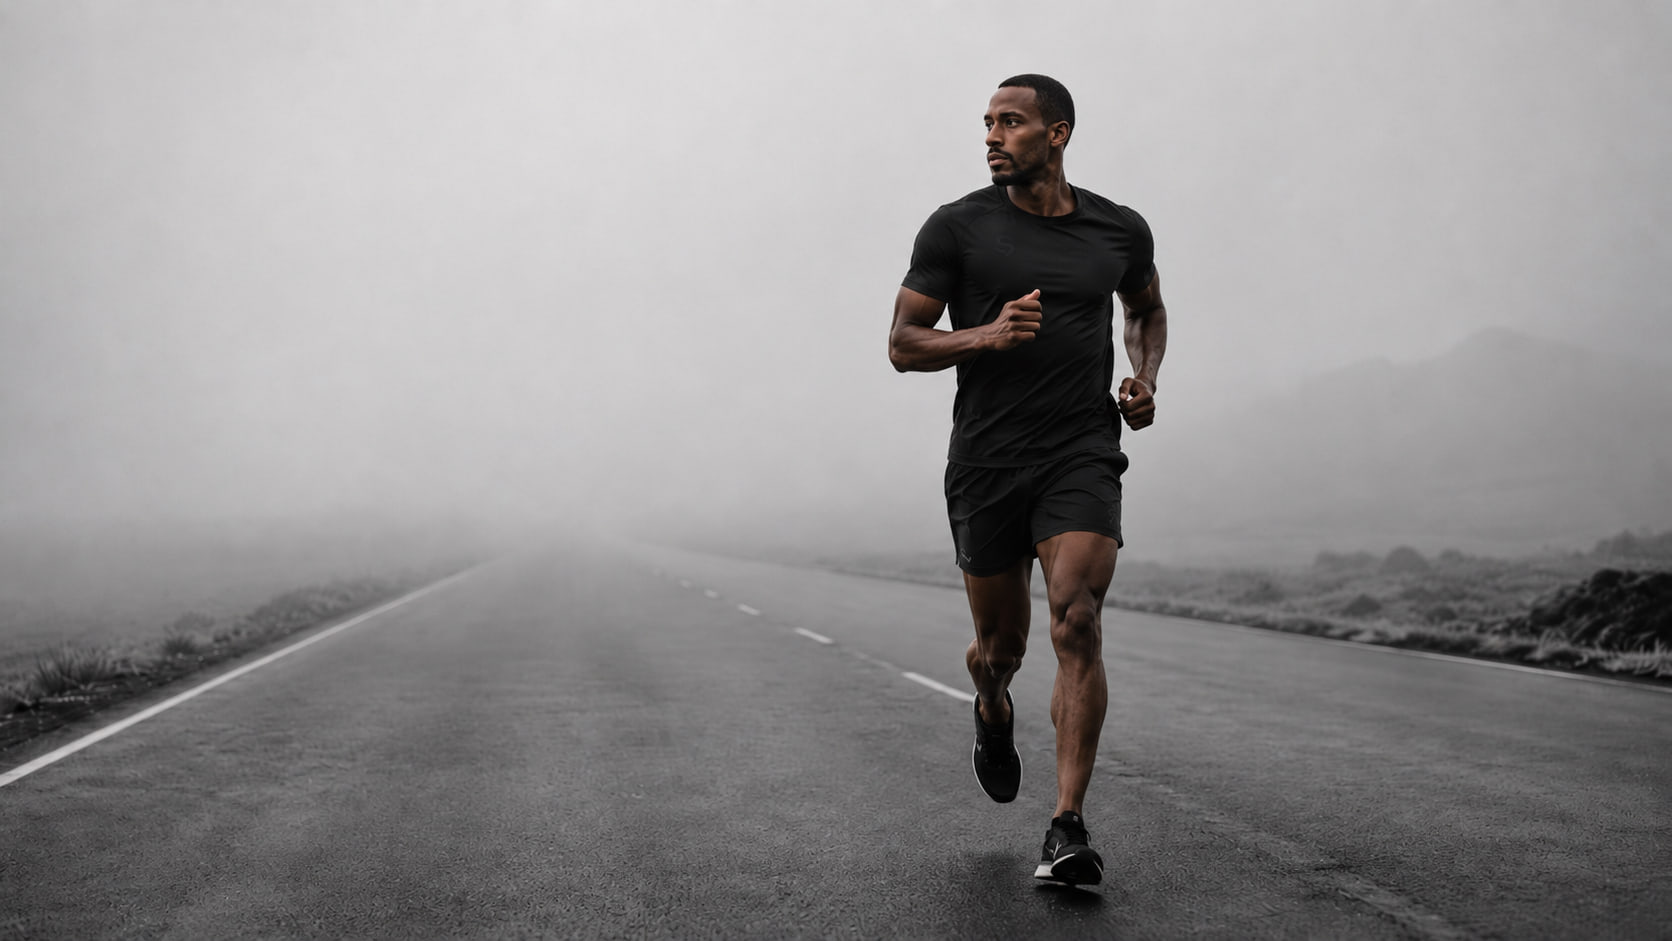
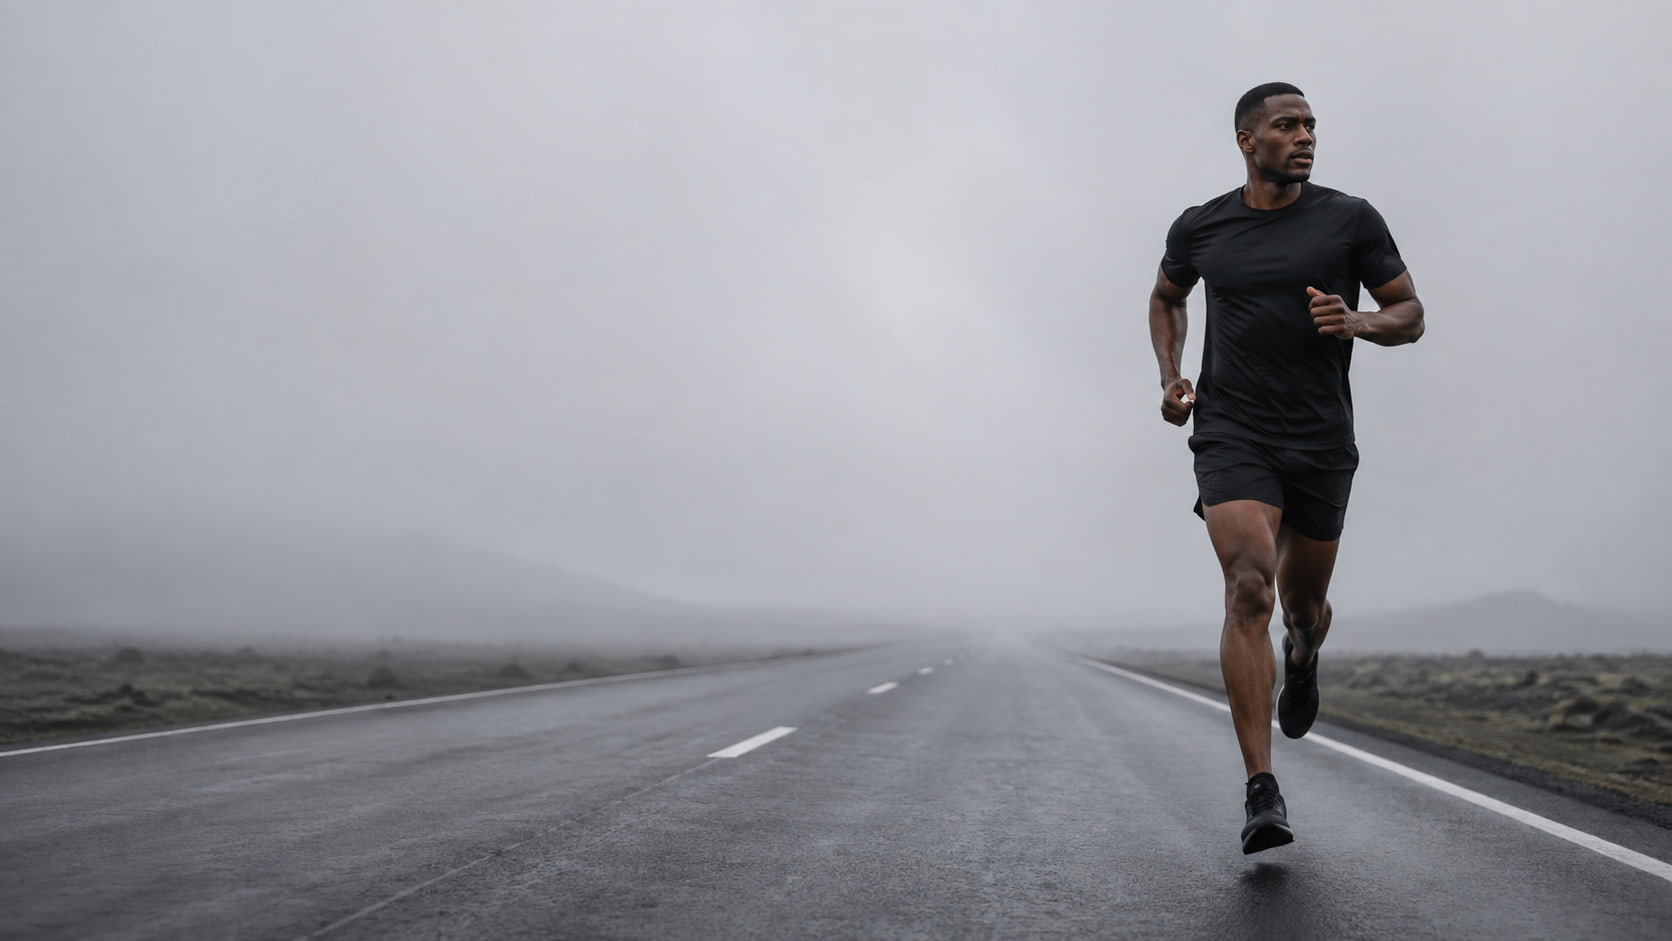
New Running hero photo, zoomed to match Gym; Gym hero 0.5cm taller
Running:
- Replace images/hero-running.jpg with the v2 shot. This one needs no
  horizontal flip - the runner is already on the right - and its shoes are
  plain black, so the swoosh-like marks on the previous image are gone.
- Zoom the photo to 160% of the hero width so the runner matches the gym
  model's apparent size; at plain cover he sat small in a wide landscape
  and the two heroes read as different systems. Desktop only: on mobile
  cover scales by height, so a width-based 160% would expose a gap.
- Move framing out of the inline style and into the page stylesheet. An
  inline background-position beats every media query, which would have
  silently killed the mobile framing.

Gym:
- Revert the 0.5cm photo lift; the image is back at the shared 72% top.
- Make the hero itself 0.5cm taller instead: min-height calc(58vh + 0.5cm).

diff --git a/collection-running.html b/collection-running.html
@@ -36,6 +36,18 @@
     *{box-sizing:border-box}
     :focus-visible{outline:2px solid #000;outline-offset:3px}
     @media(prefers-reduced-motion:reduce){.fu{opacity:1!important;transform:none!important;transition:none!important}}
+    /* Hero framing (5 Aug 2026). Kept in the stylesheet rather than inline on
+       the element, because an inline background-position would beat both of
+       these rules.
+       Desktop: the runner sits much smaller in his frame than the gym model
+       does in hers, so plain `cover` reads as a wide landscape next to
+       collection-gym.html. Scaling to 160% of the hero width matches the
+       gym's apparent subject size.
+       Mobile: `cover` has to scale by HEIGHT to fill the tall box, so a
+       width-based 160% would come up short and expose a gap - leave it at
+       cover and just push the runner right of centre. */
+    @media(min-width:768px){.chero-img{background-size:160% auto;background-position:80% top}}
+    @media(max-width:767px){.chero-img{background-position:88% top}}
   </style>
   <script src="js/mobile-fix.js?v=20260805b" defer></script>
 </head>
@@ -99,7 +111,7 @@
 
 <!-- HERO -->
 <section id="main" class="chero pt-28 pb-16 px-6">
-  <div class="chero-img" style="background-image:url('images/hero-running.jpg');background-position:62% top"></div>
+  <div class="chero-img" style="background-image:url('images/hero-running.jpg')"></div>
   <div class="chero-scrim"></div>
   <div class="chero-body">
     <div class="chero-copy">

diff --git a/collection-gym.html b/collection-gym.html
@@ -39,10 +39,10 @@
     *{box-sizing:border-box}
     :focus-visible{outline:2px solid #000;outline-offset:3px}
     @media(prefers-reduced-motion:reduce){.fu{opacity:1!important;transform:none!important;transition:none!important}}
-    /* Hero framing nudge (5 Aug 2026): lift the photo 0.5cm so the model sits
-       higher in the frame. Applied in two 0.25cm steps. Desktop only - mobile
-       keeps its own 78%/22% framing from css/mobile-fix.css. */
-    @media(min-width:768px){.chero-img{background-position:72% -0.5cm}}
+    /* Hero sizing (5 Aug 2026): 0.5cm taller than the shared .chero 58vh.
+       The photo itself sits at the default 72%/top framing - the earlier
+       0.5cm lift was reverted. */
+    .chero{min-height:calc(58vh + 0.5cm)}
   </style>
   <script src="js/mobile-fix.js?v=20260805b" defer></script>
 </head>
